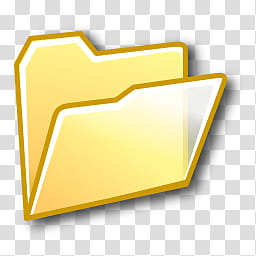
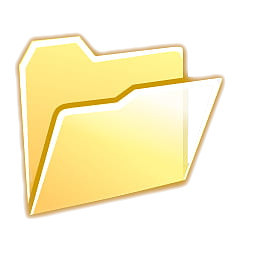
cartella?

diff --git a/src/GUI/DatabaseSelectionWidget.cpp b/src/GUI/DatabaseSelectionWidget.cpp
@@ -11,7 +11,7 @@ DatabaseSelectionWidget::DatabaseSelectionWidget(QWidget *parent)
     : QWidget(parent),
       tool_style_sheet_("font-size: 20px;"),
       button_size_(128, 128) {
-  open_db_ = makeToolButton("Apri", QPixmap(":/assets/wifi.jpeg"), this);
+  open_db_ = makeToolButton("Apri", QPixmap(":/assets/folder.jpeg"), this);
   create_db_ = makeToolButton("Nuovo", QPixmap(":/assets/matita.jpg"), this);
 
   auto *layout = new QHBoxLayout(this);
